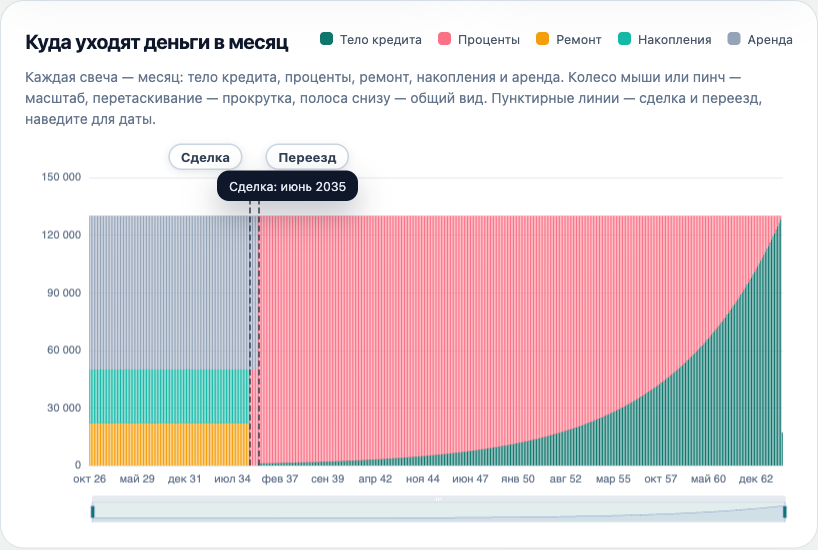
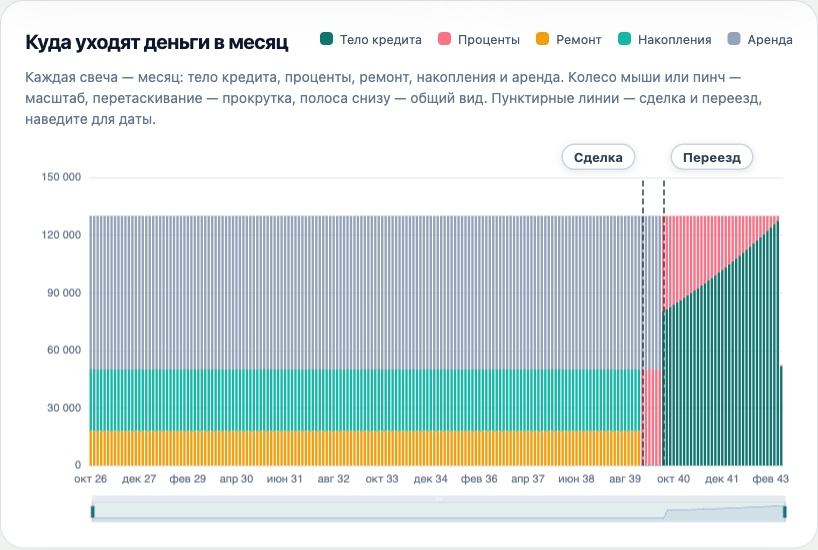
Split savings between down payment and renovation in post-purchase mode (#11)
The old model dumped the whole balance into the deal, funding the
renovation from the monthly surplus alone - at defaults the annuity
consumed nearly all savings (surplus ~215/mo), the move drifted to
"unreachable", and fast/long differed only in the payment line
because the lag outlived the loan.

allocateAfterPurchase now compares two strategies at each deal month
(minimum down payment with renovation cash vs maximum down payment
with a bigger surplus) and the affordable/threshold simulations pick
the deal month that minimises the move date. At defaults: deal at
month 159, renovation funded 2.86M in cash, move at 165; fast pays
off in 41 months, long in 360 with matching overpayments. The
cashflow chart lands the renovation cash at the deal (or spread over
the accumulation months) and keeps the monthly envelope intact.

diff --git a/src/lib/model.js b/src/lib/model.js
@@ -83,13 +83,25 @@ export const loanScheduleStepped = (principal, paymentDuring, paymentAfter, annu
   return rows;
 };
 
-export const afterPurchaseSchedule = (principal, capacityDuring, annualRate, renovationCost, renovationMonths) => {
-  const annuity = paymentForTerm(principal, annualRate);
-  if (annuity > capacityDuring + 0.01) return null;
-  if (renovationMonths <= 0 || renovationCost <= 0) return { annuity, lag: Math.max(0, renovationMonths) };
-  const surplus = capacityDuring - annuity;
-  if (surplus <= 0) return null;
-  return { annuity, lag: Math.max(renovationMonths, Math.ceil(renovationCost / surplus)) };
+export const allocateAfterPurchase = (price, balance, capacityDuring, annualRate, downPaymentPercent, renovationCost, renovationMonths) => {
+  const rate = annualRate / 100 / 12;
+  const perRouble = rate ? rate / (1 - Math.pow(1 + rate, -MAX_LOAN_MONTHS)) : 1 / MAX_LOAN_MONTHS;
+  const principalMax = capacityDuring / perRouble;
+  const downMin = Math.max(price * downPaymentPercent / 100, price - principalMax, price - balance);
+  if (balance < downMin - 0.01) return null;
+  const evaluate = (down) => {
+    const principal = Math.max(0, price - down);
+    const annuity = principal * perRouble;
+    const surplus = capacityDuring - annuity;
+    const renoCash = Math.min(renovationCost, Math.max(0, balance - down));
+    const remaining = Math.max(0, renovationCost - renoCash);
+    if (remaining <= 0) return { down, principal, annuity, surplus, renoCash, lag: Math.max(0, renovationMonths) };
+    if (surplus <= 0) return null;
+    return { down, principal, annuity, surplus, renoCash, lag: Math.max(renovationMonths, Math.ceil(remaining / surplus)) };
+  };
+  const options = [evaluate(downMin), evaluate(balance)].filter(Boolean);
+  if (!options.length) return null;
+  return options.reduce((best, option) => option.lag < best.lag ? option : best);
 };
 
 export const rentPaidUntilMonth = (rawInputs, month) => {
@@ -120,14 +132,16 @@ export const calculate = (rawInputs, repaymentMode, renovation = NO_RENOVATION) 
     return Math.max(renoMonths, Math.ceil(renoCostAt(month) / surplus));
   };
   const renoLag = (surplus, month) => renoAfterPurchase ? renoLagAfter(surplus, month) : renoMonths;
-  const pickPlan = (principal, month) => {
-    if (!renoActive) return selectedLoanPlan(principal, payment, mortgageRate, repaymentMode);
-    if (!renoAfterPurchase) return selectedRenovationLoanPlan(principal, monthlySavings, payment, mortgageRate, repaymentMode, renoMonths);
-    const schedule = afterPurchaseSchedule(principal, monthlySavings, mortgageRate, renoCostAt(month), renoMonths);
-    if (!schedule) return null;
-    const capacityAfter = repaymentMode === 'fast' ? payment : schedule.annuity;
-    const plan = loanPlanStepped(principal, schedule.annuity, capacityAfter, mortgageRate, schedule.lag);
-    return plan && { ...plan, payment: capacityAfter, lag: schedule.lag };
+  const priceAt = (month) => propertyPrice * Math.pow(propertyGrowth, month / 12);
+  const pickPlan = (month, simBalance) => {
+    const price = priceAt(month);
+    if (!renoActive) return selectedLoanPlan(Math.max(0, price - simBalance), payment, mortgageRate, repaymentMode);
+    if (!renoAfterPurchase) return selectedRenovationLoanPlan(Math.max(0, price - (simBalance - renoCostAt(month))), monthlySavings, payment, mortgageRate, repaymentMode, renoMonths);
+    const allocation = allocateAfterPurchase(price, simBalance, monthlySavings, mortgageRate, downPaymentPercent, renoCostAt(month), renoMonths);
+    if (!allocation || allocation.lag > SIMULATION_HORIZON_MONTHS - month) return null;
+    const capacityAfter = repaymentMode === 'fast' ? payment : allocation.annuity;
+    const plan = loanPlanStepped(allocation.principal, allocation.annuity, capacityAfter, mortgageRate, allocation.lag);
+    return plan && { ...plan, principal: allocation.principal, payment: capacityAfter, lag: allocation.lag, renoCash: allocation.renoCash, annuity: allocation.annuity, surplus: allocation.surplus };
   };
   const withReno = (object, month, lag = renoMonths) => renoActive ? { ...object, moveMonth: month + lag, renovationCost: renoCostAt(month) } : object;
   let balance = savings, rentPaid = 0, cashPurchase = null;
@@ -145,8 +159,8 @@ export const calculate = (rawInputs, repaymentMode, renovation = NO_RENOVATION) 
   const requiredDownPayment = propertyPrice * downPaymentPercent / 100;
   const upfrontCost = requiredDownPayment + renoTarget(0);
   const hasDownPayment = savings >= upfrontCost;
-  const principal = Math.max(0, propertyPrice - (savings - renoTarget(0)));
-  const currentPlan = hasDownPayment ? pickPlan(principal, 0) : null;
+  const principal = hasDownPayment ? (pickPlan(0, savings)?.principal ?? Math.max(0, propertyPrice - (savings - renoTarget(0)))) : Math.max(0, propertyPrice - (savings - renoTarget(0)));
+  const currentPlan = hasDownPayment ? pickPlan(0, savings) : null;
   const months = currentPlan?.months ?? null;
   const currentLag = currentPlan?.lag ?? renoLag(monthlySavings, 0);
   let downPaymentBalance = savings, mortgageAtDownPayment = null;
@@ -155,36 +169,43 @@ export const calculate = (rawInputs, repaymentMode, renovation = NO_RENOVATION) 
     const required = price * downPaymentPercent / 100;
     const renoCost = renoCostAt(month);
     if (downPaymentBalance >= required + renoTarget(month)) {
-      const futurePrincipal = Math.max(0, price - (downPaymentBalance - renoTarget(month)));
-      const futurePlan = pickPlan(futurePrincipal, month);
+      const futurePlan = pickPlan(month, downPaymentBalance);
+      const futurePrincipal = futurePlan?.principal ?? Math.max(0, price - (downPaymentBalance - renoTarget(month)));
       const lag = futurePlan?.lag ?? renoLag(monthlySavings, month);
-      mortgageAtDownPayment = withReno({ month, price, balance: downPaymentBalance, principal: futurePrincipal, payment: futurePlan?.payment ?? payment, months: futurePlan?.months ?? null, overpayment: futurePlan?.overpayment ?? null }, month, lag);
+      mortgageAtDownPayment = withReno({ month, price, balance: downPaymentBalance, principal: futurePrincipal, payment: futurePlan?.payment ?? payment, months: futurePlan?.months ?? null, overpayment: futurePlan?.overpayment ?? null, renoCash: futurePlan?.renoCash, annuity: futurePlan?.annuity }, month, lag);
       break;
     }
     downPaymentBalance = downPaymentBalance * (1 + depositRate / 100 / 12) + savingsContribution(month);
   }
-  let affordableBalance = savings, mortgageAffordable = null;
+  let affordableBalance = savings, mortgageAffordable = null, affordableBestMove = Infinity;
   for (let month = 0; month <= AFFORDABILITY_HORIZON_MONTHS; month += 1) {
     const price = propertyPrice * Math.pow(propertyGrowth, month / 12);
     const required = price * downPaymentPercent / 100;
-    const futurePrincipal = Math.max(0, price - (affordableBalance - renoTarget(month)));
-    const futurePlan = pickPlan(futurePrincipal, month);
+    const futurePlan = pickPlan(month, affordableBalance);
     if (affordableBalance >= required + renoTarget(month) && futurePlan !== null) {
-      mortgageAffordable = withReno({ month, principal: futurePrincipal, payment: futurePlan.payment, months: futurePlan.months, overpayment: futurePlan.overpayment }, month, futurePlan.lag);
-      break;
+      const move = month + (futurePlan.lag ?? 0);
+      if (move < affordableBestMove) {
+        affordableBestMove = move;
+        const futurePrincipal = futurePlan.principal ?? Math.max(0, price - (affordableBalance - renoTarget(month)));
+        mortgageAffordable = withReno({ month, principal: futurePrincipal, payment: futurePlan.payment, months: futurePlan.months, overpayment: futurePlan.overpayment, renoCash: futurePlan.renoCash, annuity: futurePlan.annuity }, month, futurePlan.lag);
+      }
+      if (!renoAfterPurchase) break;
     }
     affordableBalance = affordableBalance * (1 + depositRate / 100 / 12) + savingsContribution(month);
   }
-  let thresholdBalance = savings, thresholdPurchase = null;
+  let thresholdBalance = savings, thresholdPurchase = null, thresholdBestMove = Infinity;
   for (let month = 0; month <= SIMULATION_HORIZON_MONTHS; month += 1) {
     const price = propertyPrice * Math.pow(propertyGrowth, month / 12);
     const futureDownPayment = price * downPaymentPercent / 100;
-    const futurePrincipal = Math.max(0, price - (thresholdBalance - renoTarget(month)));
-    const futurePlan = pickPlan(futurePrincipal, month);
+    const futurePlan = pickPlan(month, thresholdBalance);
     const firstMonthInterest = futurePlan?.firstMonthInterest ?? null;
     if (thresholdBalance >= futureDownPayment + renoTarget(month) && futurePlan !== null && firstMonthInterest < rentAtMonth(month)) {
-      thresholdPurchase = withReno({ month, price, balance: thresholdBalance, rent: rentAtMonth(month), firstMonthInterest, principal: futurePrincipal, payment: futurePlan.payment, months: futurePlan.months, overpayment: futurePlan.overpayment }, month, futurePlan.lag);
-      break;
+      const move = month + (futurePlan.lag ?? 0);
+      if (move < thresholdBestMove) {
+        thresholdBestMove = move;
+        thresholdPurchase = withReno({ month, price, balance: thresholdBalance, rent: rentAtMonth(month), firstMonthInterest, principal: futurePlan.principal ?? Math.max(0, price - (thresholdBalance - renoTarget(month))), payment: futurePlan.payment, months: futurePlan.months, overpayment: futurePlan.overpayment, renoCash: futurePlan.renoCash, annuity: futurePlan.annuity }, month, futurePlan.lag);
+      }
+      if (!renoAfterPurchase) break;
     }
     thresholdBalance = thresholdBalance * (1 + depositRate / 100 / 12) + savingsContribution(month);
   }
@@ -215,18 +236,18 @@ export const buildCashflow = (rawInputs, repaymentMode, renovation = NO_RENOVATI
   if (plan.principal > 0) {
     if (!renoActive) schedule = loanScheduleStepped(plan.principal, plan.payment, plan.payment, mortgageRate, 0, plan.months + 1);
     else if (fundingAfter) {
-      const bought = afterPurchaseSchedule(plan.principal, monthlySavings, mortgageRate, renoCostDeal, renoMonths);
-      const annuity = bought?.annuity ?? paymentForTerm(plan.principal, mortgageRate);
+      const annuity = plan.annuity ?? plan.payment;
       const capacityAfter = repaymentMode === 'fast' ? monthlySavings + rent : annuity;
-      schedule = loanScheduleStepped(plan.principal, annuity, capacityAfter, mortgageRate, lag, plan.months + lag + 1);
+      schedule = loanScheduleStepped(plan.principal, annuity, capacityAfter, mortgageRate, plan.lag ?? lag, plan.months + (plan.lag ?? lag) + 1);
     } else {
       const during = repaymentMode === 'fast' ? monthlySavings : plan.payment;
       const capacityAfter = repaymentMode === 'fast' ? monthlySavings + rent : plan.payment;
       schedule = loanScheduleStepped(plan.principal, during, capacityAfter, mortgageRate, lag, plan.months + lag + 1);
     }
   }
-  const accumulationReno = renoActive && !fundingAfter && dealMonth > 0 ? renoCostDeal / dealMonth : 0;
-  const dealRenoLump = renoActive && !fundingAfter && dealMonth === 0 ? renoCostDeal : 0;
+  const renoCash = fundingAfter ? (plan.renoCash ?? 0) : 0;
+  const accumulationReno = renoActive && dealMonth > 0 ? (fundingAfter ? renoCash : renoCostDeal) / dealMonth : 0;
+  const dealRenoLump = renoActive && dealMonth === 0 ? (fundingAfter ? renoCash : renoCostDeal) : 0;
   let renoPaid = 0;
   const rows = [];
   const totalMonths = Math.min(SIMULATION_HORIZON_MONTHS, dealMonth + Math.max(plan.months, lag, 1));
@@ -242,13 +263,14 @@ export const buildCashflow = (rawInputs, repaymentMode, renovation = NO_RENOVATI
       row.rent = rent;
     } else if (month < moveMonth) {
       row.rent = rent;
+      let monthlyReno = 0;
       if (fundingAfter) {
-        row.renovation = Math.min(Math.max(0, monthlySavings - paymentActual), Math.max(0, renoCostDeal - renoPaid));
-        renoPaid += row.renovation;
-      } else if (dealRenoLump && month === dealMonth) {
-        row.renovation = dealRenoLump;
+        monthlyReno = Math.min(Math.max(0, monthlySavings - paymentActual), Math.max(0, renoCostDeal - renoCash - renoPaid));
+        renoPaid += monthlyReno;
       }
-      row.savings = Math.max(0, monthlySavings - paymentActual - row.renovation);
+      if (dealRenoLump > 0 && month === dealMonth) row.renovation += dealRenoLump;
+      row.renovation += monthlyReno;
+      row.savings = Math.max(0, monthlySavings - paymentActual - monthlyReno);
     } else {
       row.interest = interestPaid;
       row.principal = principalPaid;

diff --git a/src/lib/model.test.js b/src/lib/model.test.js
@@ -1,5 +1,5 @@
 import { describe, expect, it } from 'vitest';
-import { DEFAULTS, NO_RENOVATION, RENOVATION_COST_SHARE, SIMULATION_HORIZON_MONTHS, loanPlan, loanPlanStepped, loanScheduleStepped, paymentForTerm, selectedLoanPlan, selectedRenovationLoanPlan, afterPurchaseSchedule, calculate, isMortgagePaymentTooLow, buildCashflow, rentPaidUntilMonth } from './model.js';
+import { DEFAULTS, NO_RENOVATION, RENOVATION_COST_SHARE, SIMULATION_HORIZON_MONTHS, loanPlan, loanPlanStepped, loanScheduleStepped, paymentForTerm, selectedLoanPlan, selectedRenovationLoanPlan, allocateAfterPurchase, calculate, isMortgagePaymentTooLow, buildCashflow, rentPaidUntilMonth } from './model.js';
 import { plural, yearsLabel, monthsLabel, duration } from './format.js';
 import expected from './model.characterization.json';
 
@@ -205,60 +205,69 @@ describe('renovation: calculate «накопить до»', () => {
   });
 });
 
-describe('renovation: afterPurchaseSchedule', () => {
-  it('rejects when the 30-year annuity exceeds the renovation-phase capacity', () => {
-    expect(afterPurchaseSchedule(8701642.9, 50000, 16.9, 2289453.6, 6)).toBeNull();
+describe('renovation: allocateAfterPurchase', () => {
+  it('reserves renovation cash beyond the minimum down payment', () => {
+    const allocation = allocateAfterPurchase(4000000, 3400000, 100000, 16.9, 20, 1500000, 6);
+    expect(allocation.down).toBe(800000);
+    expect(allocation.principal).toBe(3200000);
+    expect(allocation.renoCash).toBe(1500000);
+    expect(allocation.lag).toBe(6);
+    expect(allocation.annuity).toBeCloseTo(45361.91, 1);
+    expect(allocation.surplus).toBeCloseTo(54638.09, 1);
   });
-  it('rejects when the annuity consumes the whole capacity with a cost to cover', () => {
-    expect(afterPurchaseSchedule(3540000, 50000, 16.9, 1500000, 6)).toBeNull();
+
+  it('prefers the maximum down payment when the bigger surplus finishes renovation sooner', () => {
+    const allocation = allocateAfterPurchase(4000000, 3400000, 100000, 16.9, 20, 12000000, 6);
+    expect(allocation.down).toBe(3400000);
+    expect(allocation.principal).toBe(600000);
+    expect(allocation.renoCash).toBe(0);
+    expect(allocation.lag).toBe(132);
   });
-  it('keeps the works duration when funding finishes earlier', () => {
-    const schedule = afterPurchaseSchedule(3000000, 50000, 16.9, 100000, 24);
-    expect(schedule.lag).toBe(24);
-    expect(schedule.annuity).toBeCloseTo(42526.79, 1);
+
+  it('returns null when the balance cannot cover the minimum down payment', () => {
+    expect(allocateAfterPurchase(4000000, 1500000, 50000, 16.9, 20, 1000000, 6)).toBeNull();
   });
-  it('extends the lag when funding takes longer than the works', () => {
-    const schedule = afterPurchaseSchedule(3000000, 50000, 16.9, 2000000, 6);
-    expect(schedule.lag).toBe(268);
-    expect(schedule.annuity).toBeCloseTo(42526.79, 1);
-  });
-  it('skips the lag for zero cost', () => {
-    const schedule = afterPurchaseSchedule(3000000, 50000, 16.9, 0, 6);
-    expect(schedule.lag).toBe(6);
-    expect(schedule.annuity).toBeCloseTo(42526.79, 1);
+
+  it('keeps the works duration when renovation is fully funded in cash', () => {
+    const allocation = allocateAfterPurchase(4000000, 4000000, 100000, 16.9, 20, 1500000, 6);
+    expect(allocation.renoCash).toBe(1500000);
+    expect(allocation.lag).toBe(6);
   });
 });
 
 describe('renovation: calculate «после покупки»', () => {
   const renoAfter = { needed: true, cost: 1500000, months: 6, funding: 'after' };
 
-  it('deal target is the down payment only: rich savings buy now, renovation funded from surplus', () => {
+  it('picks the deal month that minimises the move date, funding renovation from savings beyond the down payment', () => {
+    const result = calculate(DEFAULTS, 'fast', renoAfter);
+    expect(result.mortgageAffordable.month).toBe(159);
+    expect(result.mortgageAffordable.moveMonth).toBe(165);
+    expect(result.mortgageAffordable.renoCash).toBeGreaterThan(2800000);
+    expect(result.mortgageAffordable.principal).toBeCloseTo(3527188, -3);
+  });
+
+  it('fast and long modes now differ in term and overpayment', () => {
+    const fast = calculate(DEFAULTS, 'fast', renoAfter).mortgageAffordable;
+    const long = calculate(DEFAULTS, 'long', renoAfter).mortgageAffordable;
+    expect(fast.months).toBeLessThan(60);
+    expect(long.months).toBe(360);
+    expect(long.overpayment).toBeGreaterThan(fast.overpayment);
+    expect(long.payment).toBeCloseTo(50000, -3);
+    expect(fast.moveMonth).toBe(long.moveMonth);
+  });
+
+  it('rich savings buy now and fund renovation in cash', () => {
     const result = calculate({ ...DEFAULTS, savings: 8000000 }, 'fast', renoAfter);
     expect(result.hasDownPayment).toBe(true);
-    expect(result.upfrontCost).toBe(2000000);
-    expect(result.principal).toBe(2000000);
-    expect(result.moveMonth).toBe(70);
-    expect(result.months).toBe(88);
+    expect(result.moveMonth).toBe(6);
+    expect(result.principal).toBeCloseTo(3527188, -3);
+    expect(result.months).toBeLessThan(60);
   });
 
-  it('long mode keeps the annuity after the move', () => {
-    const result = calculate({ ...DEFAULTS, savings: 8000000 }, 'long', renoAfter);
-    expect(result.months).toBe(360);
-    expect(result.payment).toBeCloseTo(28351.19, 1);
-    expect(result.moveMonth).toBe(70);
-  });
-
-  it('the annuity gate pushes the affordable deal month until the annuity fits monthly savings', () => {
-    const result = calculate(DEFAULTS, 'fast', renoAfter);
-    expect(result.mortgageAffordable.month).toBe(136);
-    expect(result.mortgageAffordable.principal).toBeCloseTo(3511968.48, 1);
-    expect(result.mortgageAffordable.months).toBe(360);
-  });
-
-  it('a near-zero surplus delays the move beyond the horizon (UI shows «Не достижимо»)', () => {
-    const result = calculate(DEFAULTS, 'fast', renoAfter);
-    expect(result.mortgageAffordable.moveMonth).toBe(12223);
-    expect(result.mortgageAffordable.moveMonth).toBeGreaterThan(SIMULATION_HORIZON_MONTHS);
+  it('threshold purchase agrees on the best move date', () => {
+    const result = calculate(DEFAULTS, 'long', renoAfter);
+    expect(result.thresholdPurchase.month).toBe(159);
+    expect(result.thresholdPurchase.moveMonth).toBe(165);
   });
 
   it('cash deal waits for the price only, then funds renovation from monthly savings', () => {
@@ -266,12 +275,6 @@ describe('renovation: calculate «после покупки»', () => {
     expect(result.cashPurchase.month).toBe(163);
     expect(result.cashPurchase.moveMonth).toBe(222);
     expect(result.cashPurchase.rentPaid).toBeCloseTo(28787556.94, 1);
-  });
-
-  it('threshold deal also gates on the annuity and reports the lagged move', () => {
-    const result = calculate(DEFAULTS, 'long', renoAfter);
-    expect(result.thresholdPurchase.month).toBe(136);
-    expect(result.thresholdPurchase.payment).toBeCloseTo(49784.25, 1);
   });
 });
 
@@ -313,15 +316,15 @@ describe('buildCashflow', () => {
       const data = buildCashflow(DEFAULTS, 'fast', renovation);
       const envelope = 50000 + 80000;
       for (const row of data.rows) {
-        if (row.month < data.moveMonth) {
-          expect(total(row)).toBeCloseTo(envelope, 0);
-          expect(row.rent).toBe(80000);
-        } else {
+        if (row.month >= data.moveMonth) {
           expect(total(row)).toBeLessThanOrEqual(envelope + 1);
           expect(row.savings).toBe(0);
+        } else if (name !== 'after' || row.month !== data.dealMonth) {
+          expect(total(row)).toBeCloseTo(envelope, 0);
+          expect(row.rent).toBe(80000);
         }
       }
-      expect(data.maximum).toBeLessThanOrEqual(envelope + 1);
+      expect(data.maximum).toBeGreaterThan(0);
       expect(data.rows.length).toBeGreaterThan(0);
     }
   });
@@ -341,16 +344,15 @@ describe('buildCashflow', () => {
     }
   });
 
-  it('«после покупки»: renovation equals the monthly surplus until the cost is covered', () => {
+  it('«после покупки»: renovation cash lands at the deal, then the surplus finishes it', () => {
     const data = buildCashflow({ ...zero, propertyPrice: 4000000, savings: 3400000, monthlySavings: 100000, rent: 0 }, 'fast', { needed: true, cost: 1200000, months: 6, funding: 'after' });
     expect(data.dealMonth).toBe(0);
-    expect(data.moveMonth).toBe(14);
+    expect(data.moveMonth).toBe(6);
+    expect(data.rows[0].renovation).toBeCloseTo(1200000, 1);
     expect(sum(data.rows, 'renovation')).toBeCloseTo(1200000, 1);
-    for (let month = 0; month < 13; month += 1) {
-      expect(data.rows[month].renovation + data.rows[month].principal + data.rows[month].interest).toBeCloseTo(100000, 1);
-      expect(data.rows[month].savings).toBe(0);
+    for (let month = 0; month < 6; month += 1) {
+      expect(data.rows[month].principal + data.rows[month].interest).toBeCloseTo(45361.91, 0);
     }
-    expect(data.rows[13].renovation).toBeLessThan(data.rows[0].renovation);
   });
 
   it('loan payments match the amortization plan', () => {
